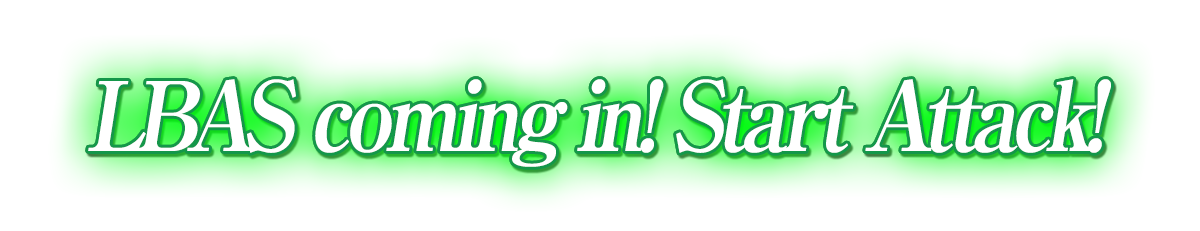
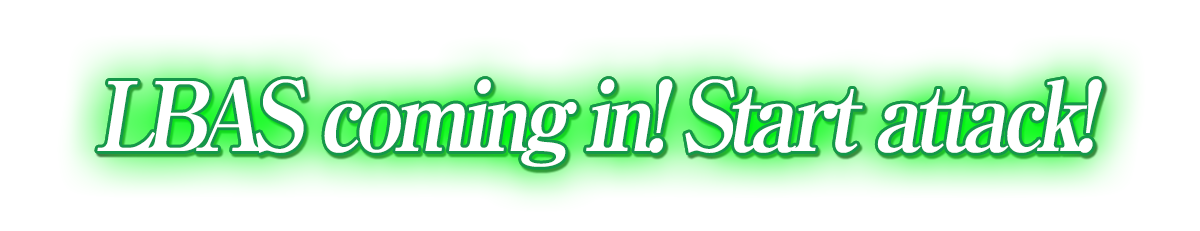
Update to v3.22.4
-== Raw Text Patching ==-
-- Fixed --
- E-3 operation name
- Missing E-4 flavor text

-== Texture Patching ==-
-- Changed --
- LBAS coming in message (Start Attack! → Start attack!)
- LBAS damage message translations

-== Other Additions ==-
- Updated the quick updater to v0.6.0!
-> A loading bar has been added to display progress during the update process!
-> Launching the program on an unsupported PowerShell version will now display a nice and clean message!
-> Closing the updater during the update process will prompt you to restart it on the next launch!
-> You may now launch "_enable_update_checker.bat" to get notified of patch updates immediately upon launching your computer!
-> Some other minor changes to improve the user experience

Changed region(s): [[0.0617, 0.2424, 0.9558, 0.7576]]

diff --git a/README.md b/README.md
@@ -8,7 +8,7 @@ This link above redirects to a document that contains everything you need to get
 whether it be as a new player, as a returning or active player, on PC, Mac, Linux or Android.
 It also contains some useful resources for the game itself, and an early walkthrough if you feel lost.
 ## [Discord server](https://discord.gg/krMeMKB)
-- **Popular:** Over 1,400 members and growing! Join a lively community.
+- **Popular:** Over 1,600 members and growing! Join a lively community.
 - **Helpful:** Need help with installing the game or figuring out mechanics? We're here to help!
 - **Links:** Want to explore the other existing KanColle Discords? There's a gateway channel!
 - **Ping Squad role:** Receive pings for polls and update notices about the patch.
@@ -38,8 +38,14 @@ Modifiying game assets is technically against the Terms of Service, so use at yo
 Currently, everything that is essential to comfortable gameplay,\
 or that is very often seen in the game, is translated. This even includes event flavor text.
 
-## Special Thanks
+##### English Patch Manager
+The quick updater v0.6.0 lets you easily update the patch\
+without resorting to installing git. It also clears the browser cache for you!\
+It is now also possible to launch "_enable_update_checker.bat" to be\
+immediately notified of a patch update upon launching your PC!\
+You can disable it at any time.
 
+## Special Thanks
 To Tibo for implementing new ways to patch the game's textures with KCCacheProxy,\
 as well as for making some code specially to patch raw text in a stable way.\
 To Dark Sentinel for contributing (LBAS menu aircraft names, world icons, server banners, and more).\
